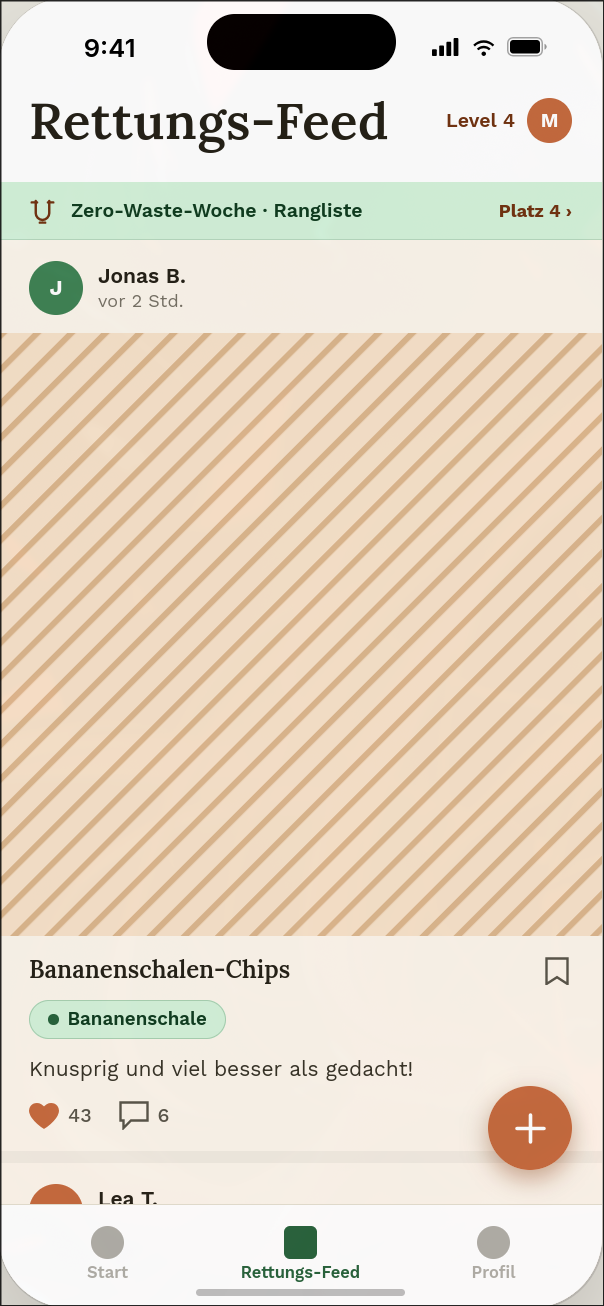
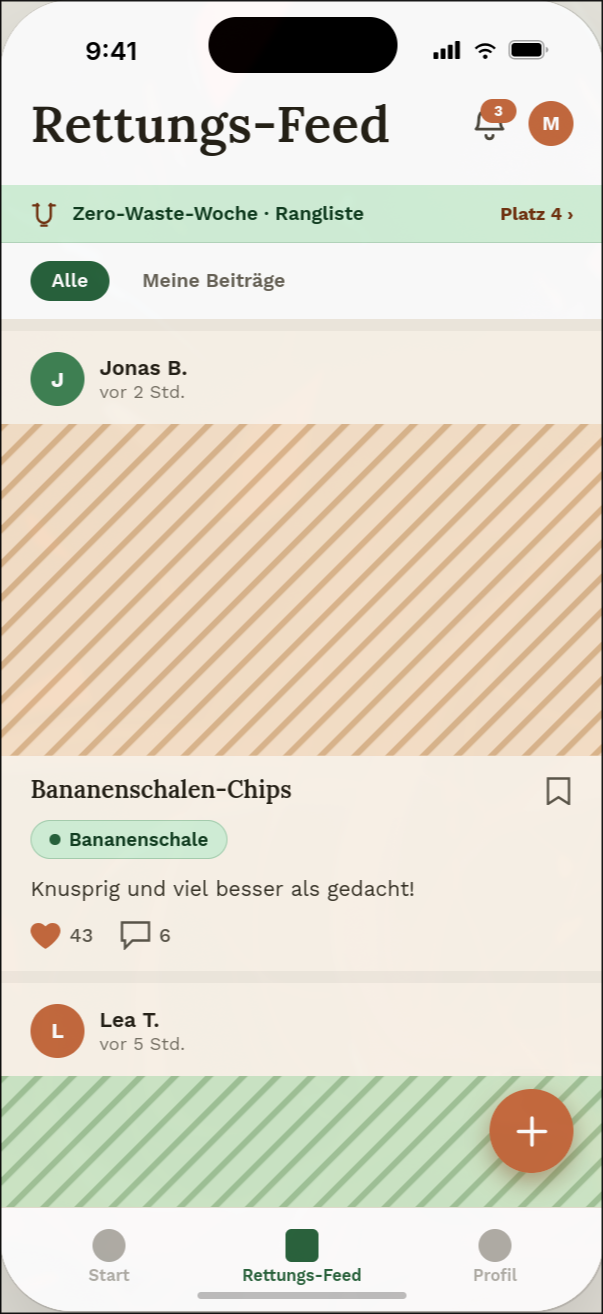
neue mockups + styletile

diff --git a/TODO.md b/TODO.md
@@ -1,0 +1,20 @@
+# 0. Claude Code
+Macht ein Bewertungssystem von Rezepten Sinn für das Projekt oder würde das den Rahmen sprengen? Du hast bereits die Aufgabenstellung PDF in deinem Context. Schaue dort nochmal nach und gebe mir eine Einschätzung, ob wir ein Bewertungssystem von Rezepten noch implementieren sollten.
+
+# 1. Claude Design
+Ich habe auch noch das Jahr ergänzt. Folgende Punkte sollten wir noch anpassen: 1. Gibt es in Rettungs-Feed einen Weg, meine erstellten Posts zu sehen? 2. Sollten wir weiterhin auch Badges unten in der Menü-Leiste ergänzen oder sogar einen Benachrichtigungs-Button oder Icon implementieren? Falls ja wo? Gebe mir Vorschläge. 3. Wir haben Diskrepanzen zwecks der Zutaten von Brokkolo-Strunk-Suppe in Profil und Startseite. Bitte behebe diese. 4. Ist die aktuelle Implementierung des Wochenplans so gut, oder fällt dir eine bessere Implementierung ein? Wir sind noch in der Prototyp Phase, daher können wir auch wenn du das für sinnvoll hältst auch nochmal strukturell Änderungen vornehmen.
+
+# 2. Claude Code
+Dann in Opus Session die Screenshots prüfen lassen ob das mit dem Fließtext so passt, danach Punkte 4-6 aus der Checkliste mit letzter Session abarbeiten lassen
+
+# 4. Claude Code
+Kann der Absatz "Diese Trennung hält den Bericht davon ab, den gesamten Marktvorteil von Resteria als wissenschaftlich bewiesen darzustellen, obwohl er auf eigener Marktbeobachtung beruht." in 01_kernergebnisse_und_ausblick.tex so bleiben? Falls ja, sollten wir diesen jedoch umformulieren. Prüfe außerdem "Abgemildert wird das durch die transparent gekennzeichnete Herkunft und die Beschränkung auf die drei Hauptbereiche der Navigation." innerhalb von 02_limitationen.tex. Wenn es hier eine bessere Formulierung gibt, bitte umformulieren.
+
+# 5. Claude Code
+Gleiche die Probleme und Anpassungen die wir im Laufe dieser Konversation mit unserem Workflow, CLAUDE.md sowie den Skills ab. Sollten wir etwas anpassen, damit die Konversationen und die Arbeit mit Claude effizienter und diese Probleme in Zukunft von Anfang an schon vermieden werden?
+
+# 3. Claude Code (neue Sitzung)
+In der vorherigen Projektarbeit wurden Konzepte zum nutzerzentrierten Testen eines Prototyps verwendet. Schaue in sources/vorherige-projektarbeit nach, ob die verwendeten Konzepte samt Quellen und indirekten Zitaten für das Projekt hier sinnvoll wären.
+
+# 6. Claude Code (neue Sitzung)
+Delta-Re-Audit
